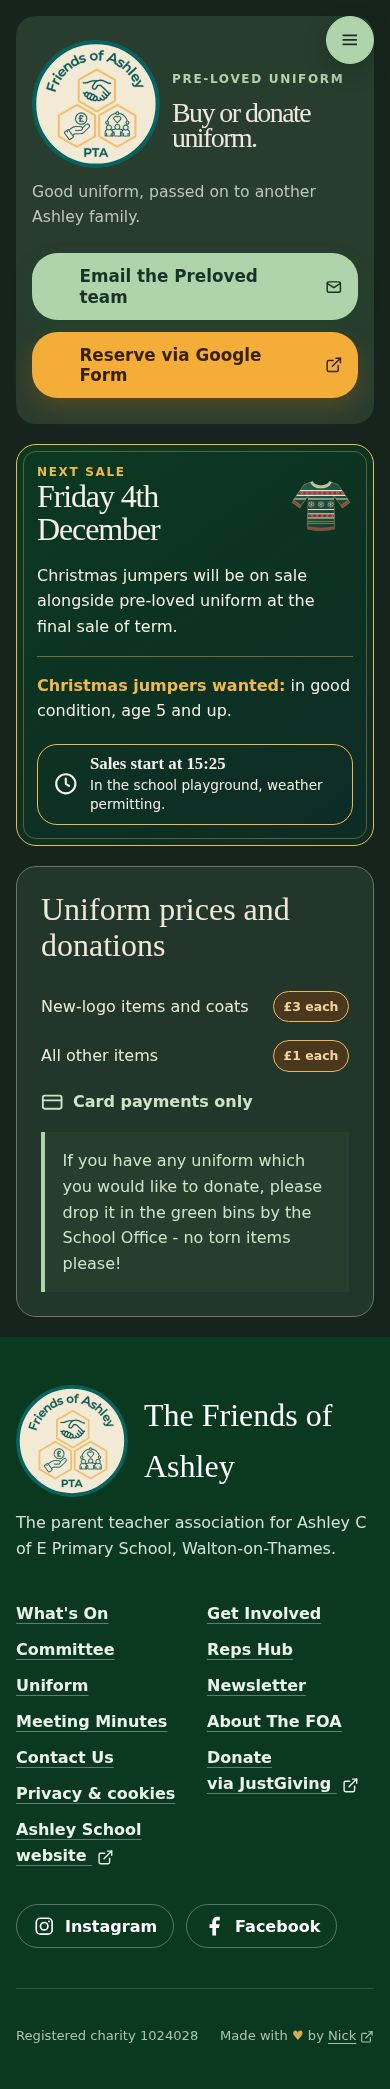
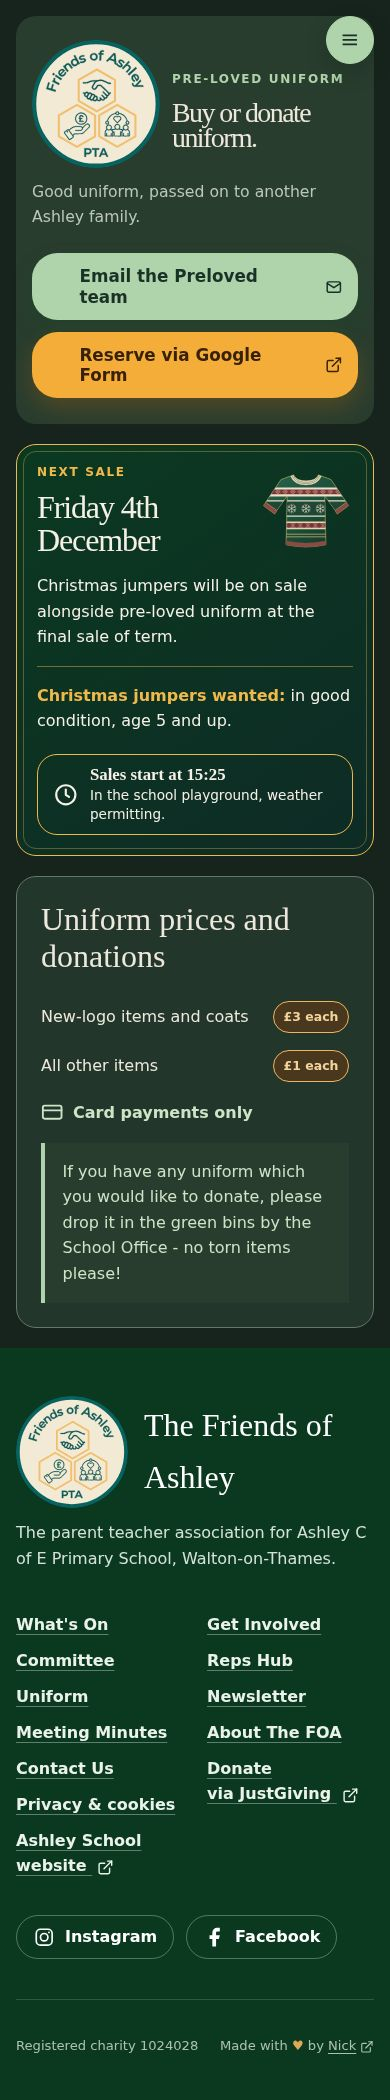
[CF-Pages-Skip] Add sale heading space and enlarge Christmas jumper

diff --git a/tests/e2e/uniform-sale-layout.spec.ts b/tests/e2e/uniform-sale-layout.spec.ts
@@ -10,7 +10,9 @@ for (const width of [320, 390, 768, 1440]) {
       const date = await page.locator('.christmas-sale-top h2').boundingBox();
       const jumper = await page.locator('.christmas-knit').boundingBox();
       expect(label).not.toBeNull(); expect(date).not.toBeNull(); expect(jumper).not.toBeNull();
-      expect(date!.y - (label!.y + label!.height)).toBeLessThan(16);
+      expect(date!.y - (label!.y + label!.height)).toBeGreaterThanOrEqual(9 * scale);
+      expect(date!.y - (label!.y + label!.height)).toBeLessThan(13 * scale);
+      expect(jumper!.width).toBeGreaterThanOrEqual(76);
       expect(date!.x + date!.width).toBeLessThanOrEqual(jumper!.x);
       expect(jumper!.y).toBeLessThan(date!.y + date!.height);
       expect(jumper!.y + jumper!.height).toBeGreaterThan(label!.y);
